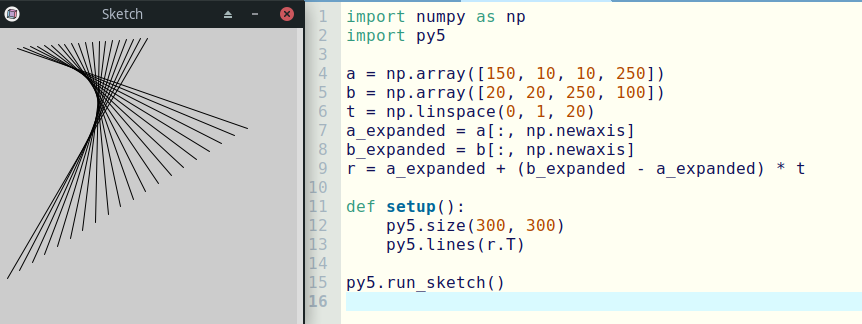
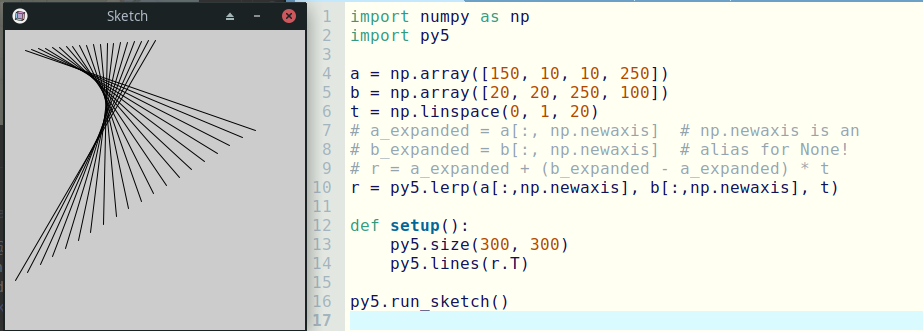
20

Changed region(s): [[0.0, 0.0, 1.0, 1.0]]

diff --git a/2024/sketch_2024_08_20/sketch_2024_08_20.py b/2024/sketch_2024_08_20/sketch_2024_08_20.py
@@ -4,9 +4,10 @@ import py5
 a = np.array([150, 10, 10, 250])
 b = np.array([20, 20, 250, 100]) 
 t = np.linspace(0, 1, 20)
-a_expanded = a[:, np.newaxis]
-b_expanded = b[:, np.newaxis]
-r = a_expanded + (b_expanded - a_expanded) * t
+# a_expanded = a[:, np.newaxis]  # np.newaxis is an 
+# b_expanded = b[:, np.newaxis]  # alias for None!
+# r = a_expanded + (b_expanded - a_expanded) * t
+r = py5.lerp(a[:,np.newaxis], b[:,np.newaxis], t)
 
 def setup():
     py5.size(300, 300)

diff --git a/docs/README.md b/docs/README.md
@@ -38,6 +38,16 @@ Here are listed some of the tools I have been using:
 
 ---
 
+### sketch_2024_08_20
+
+![sketch_2024_08_20](https://raw.githubusercontent.com/villares/sketch-a-day/main/2024/sketch_2024_08_20/sketch_2024_08_20.png)
+
+[sketch_2024_08_20](https://github.com/villares/sketch-a-day/tree/main/2024/sketch_2024_08_20) [[py5](https://py5coding.org/)]
+
+
+
+---
+
 ### sketch_2024_08_19
 
 ![sketch_2024_08_19](https://raw.githubusercontent.com/villares/sketch-a-day/main/2024/sketch_2024_08_19/sketch_2024_08_19.png)
